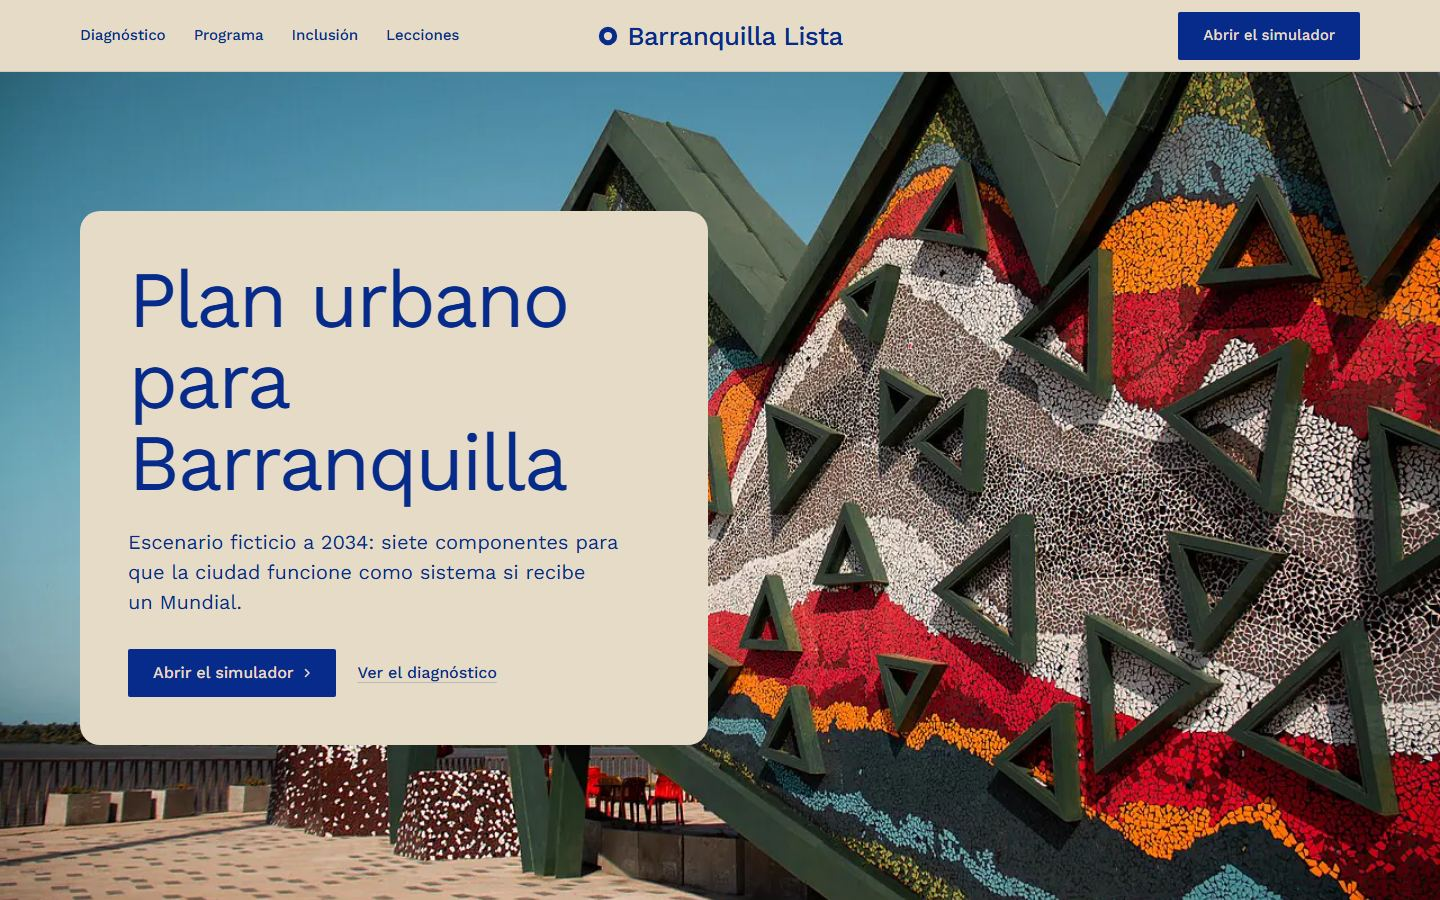
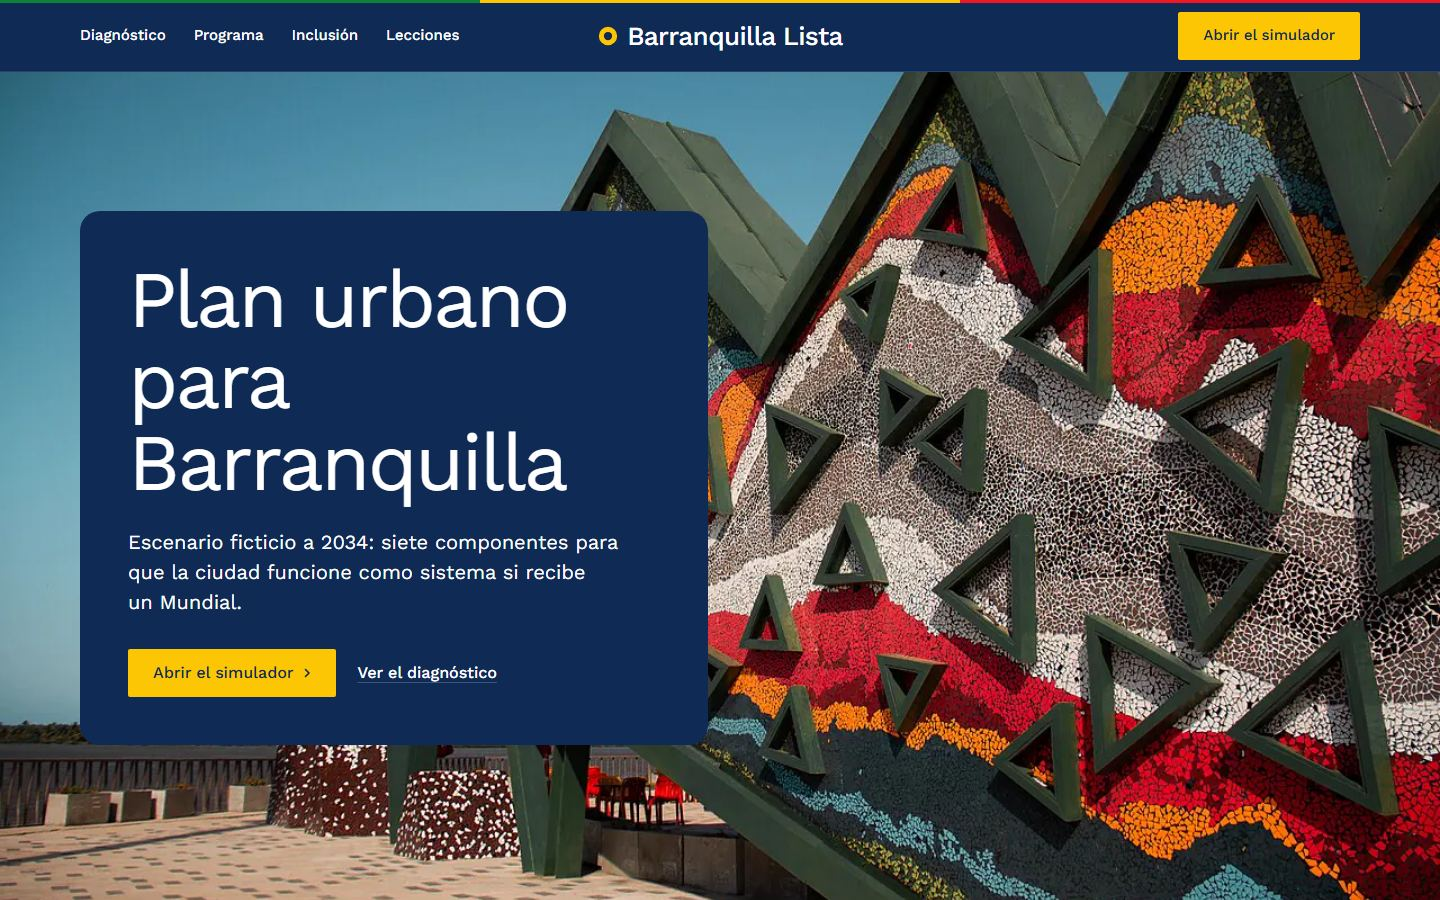
feat: aplica la nueva paleta de colores a la web
- fondo azul #0F2A54 con blanco, amarillo, verde y rojo; amarillo para
  acciones y datos, rojo y verde solo en detalles
- reúne los colores en css/paleta.css, antes repetidos en tres páginas
- franja superior verde, amarilla y roja
- actualiza el favicon y la imagen para compartir
- corrige los márgenes verticales de las secciones del simulador

diff --git a/web/index.html b/web/index.html
@@ -11,7 +11,7 @@
 <meta property="og:image" content="share.jpg">
 <meta name="twitter:card" content="summary_large_image">
 <link rel="icon" href="favicon.svg" type="image/svg+xml">
-<meta name="theme-color" content="#e6dbc7">
+<meta name="theme-color" content="#0f2a54">
 <meta name="site-kind" content="other">
 <meta name="page-type" content="service">
 <link rel="preconnect" href="https://fonts.googleapis.com">
@@ -23,19 +23,7 @@
 <link rel="stylesheet" href="assets/layout/layout.css">
 <link rel="stylesheet" href="assets/icons/icon.css">
 <link rel="stylesheet" href="assets/diagrams/diagram.css">
-<style>
-:root {
-  --p-bg: #e6dbc7; --p-surface: #ddd0b9; --p-ink: #062b8a; --p-muted: #3253a4;
-  --p-accent: #062b8a; --p-accent-ink: #e6dbc7; --p-action: #062b8a; --p-action-ink: #e6dbc7;
-  --p-inv-bg: #062b8a; --p-inv-surface: #153a90; --p-inv-ink: #e6dbc7; --p-inv-muted: #aab0bc;
-  --p-inv-accent: #e6dbc7; --p-inv-accent-ink: #062b8a; --p-inv-action: #e6dbc7; --p-inv-action-ink: #062b8a;
-  --font-display: "Work Sans", system-ui, sans-serif;
-  --font-text: "Work Sans", system-ui, sans-serif;
-  --display-weight: 400;
-  --display-tracking: -0.025em;
-  --display-tracking-xl: -0.035em;
-}
-</style>
+<link rel="stylesheet" href="css/paleta.css">
 <script>document.documentElement.classList.add('m-enter');setTimeout(()=>document.documentElement.classList.add('m-enter-done'),700)</script>
 <script>document.documentElement.classList.add('mo-js');setTimeout(()=>document.documentElement.classList.add('mo-safe'),2500)</script>
 <link rel="modulepreload" href="assets/moments/moments.js">
@@ -46,7 +34,7 @@
 <body>
 <!-- type: service (programa urbano ciudadano; site-kind other)
      deal: hero photo, nav nav-split, close close-photo, footer footer-dark, rhythm space, buttons block, mark ring, grounds none
-     palette cobalt-on-sand: arena de Bocas de Ceniza y el azul profundo del mar y el río Magdalena; type work-sans
+     palette del cliente (css/paleta.css): azul #0F2A54 de fondo, verde, amarillo, rojo y blanco; type work-sans
      moments: pinned-chapters en #partido (la cadena de respuesta un día de partido) -->
 
 <header class="nav nav--split">
@@ -136,13 +124,13 @@
           <p>Cuatro actúan en la calle, uno avisa y conecta, y dos sostienen el legado después de 2034. Detalle de cada uno en el simulador.</p>
         </div>
         <ul class="rows">
-          <li><span class="rows__name">A. Ciudad fresca y verde</span><span class="rows__value">Acción</span></li>
-          <li><span class="rows__name">B. Ciudad que no se detiene</span><span class="rows__value">Acción</span></li>
-          <li><span class="rows__name">C. Moverse fácil y accesible</span><span class="rows__value">Acción</span></li>
-          <li><span class="rows__name">E. El Mundial vende en el barrio</span><span class="rows__value">Acción</span></li>
-          <li><span class="rows__name">D. Ciudad que avisa y responde</span><span class="rows__value">Conexión</span></li>
-          <li><span class="rows__name">F. Legado que se vigila</span><span class="rows__value">Base</span></li>
-          <li><span class="rows__name">G. Escuela de ciudad</span><span class="rows__value">Base</span></li>
+          <li><span class="rows__name">A. Ciudad fresca y verde</span><span class="rows__value" data-tipo="accion">Acción</span></li>
+          <li><span class="rows__name">B. Ciudad que no se detiene</span><span class="rows__value" data-tipo="accion">Acción</span></li>
+          <li><span class="rows__name">C. Moverse fácil y accesible</span><span class="rows__value" data-tipo="accion">Acción</span></li>
+          <li><span class="rows__name">E. El Mundial vende en el barrio</span><span class="rows__value" data-tipo="accion">Acción</span></li>
+          <li><span class="rows__name">D. Ciudad que avisa y responde</span><span class="rows__value" data-tipo="conexion">Conexión</span></li>
+          <li><span class="rows__name">F. Legado que se vigila</span><span class="rows__value" data-tipo="base">Base</span></li>
+          <li><span class="rows__name">G. Escuela de ciudad</span><span class="rows__value" data-tipo="base">Base</span></li>
         </ul>
       </div>
       <div class="frame frame--fill span-6 start-7"><div class="dg" data-diagram><script type="application/json">{"layout":"hub","alt":"La Ciudad que avisa y responde en el centro, conectada con los otros seis componentes del programa.","center":{"label":"D. Avisa y responde","icon":"ui:bell"},"spokes":[{"label":"A. Fresca y verde","icon":"ui:sun"},{"label":"B. No se detiene","icon":"ui:cloud-rain"},{"label":"C. Moverse fácil","icon":"ui:bus"},{"label":"E. Economía de barrio","icon":"ui:store"},{"label":"F. Legado vigilado","icon":"ui:eye"},{"label":"G. Escuela de ciudad","icon":"ui:graduation-cap"}]}</script></div></div>

diff --git a/web/css/simulador.css b/web/css/simulador.css
@@ -36,7 +36,7 @@
 
 .sim-controls { display: flex; flex-wrap: wrap; gap: var(--s-2); margin-top: var(--s-5); }
 .sim-status { min-height: 1.5em; margin: var(--s-3) 0 0; font-size: var(--t-small); }
-.sim-status.is-error { color: #9b1c1c; font-weight: 500; }
+.sim-status.is-error { padding-left: var(--s-3); border-left: 3px solid var(--c-rojo); font-weight: 500; }
 
 .sim-meter { display: grid; grid-template-columns: 1fr 1fr; gap: var(--s-4); margin: var(--s-5) 0 0; padding-top: var(--s-4); border-top: 1px solid var(--line); }
 .sim-meter dt { font-size: var(--t-label); color: var(--muted); }
@@ -49,11 +49,11 @@
 .pin { display: grid; place-items: center; }
 .pin span {
   display: grid; place-items: center; width: 32px; height: 32px; border-radius: 50%;
-  background: var(--p-bg); color: var(--p-ink); border: 2px solid var(--p-ink);
+  background: var(--c-azul); color: var(--c-blanco); border: 2px solid var(--c-blanco);
   font: 500 14px/1 var(--font-text); box-shadow: 0 2px 6px rgb(0 0 0 / .25); transition: transform .25s ease, background-color .25s ease;
 }
-.pin.is-active span { background: var(--p-ink); color: var(--p-bg); transform: scale(1.2); }
-.pin.is-active::after { content: ""; position: absolute; inset: -6px; border-radius: 50%; border: 2px solid var(--p-ink); animation: sim-pulso 1.8s ease-out infinite; }
+.pin.is-active span { background: var(--c-amarillo); color: var(--c-azul); border-color: var(--c-azul); transform: scale(1.2); }
+.pin.is-active::after { content: ""; position: absolute; inset: -6px; border-radius: 50%; border: 3px solid var(--c-rojo); animation: sim-pulso 1.8s ease-out infinite; }
 @keyframes sim-pulso { from { opacity: .7; transform: scale(.8); } to { opacity: 0; transform: scale(1.6); } }
 .leaflet-container { font-family: var(--font-text); }
 
@@ -65,7 +65,7 @@
   font: 400 var(--t-body)/1.5 var(--font-text); transition: transform .2s ease;
 }
 .sim-point__btn:hover { transform: translateY(-2px); }
-.sim-point__btn[aria-pressed="true"] { border-color: var(--p-ink); }
+.sim-point__btn[aria-pressed="true"] { border-color: var(--action); box-shadow: inset 0 0 0 1px var(--action); }
 .sim-point__num { font-size: var(--t-label); font-weight: 500; color: var(--muted); }
 .sim-point__name { font-size: var(--t-lead); line-height: 1.3; }
 .sim-point__why { font-size: var(--t-body); }
@@ -93,5 +93,7 @@
 
 /* El simulador es una herramienta: sus secciones crecen con el contenido, no se fijan a una pantalla. */
 .sim main > section { height: auto; min-height: 0; padding: 0; }
+.sim main > .sim-app { padding-block: var(--s-7) var(--s-8); }
+.sim main > .sim-points { padding-block: var(--s-8); }
 .sim main > section > .wrap { height: auto; }
 .sim main > .sim-app > .wrap { display: grid; }

diff --git a/web/credits.html b/web/credits.html
@@ -11,7 +11,7 @@
 <meta property="og:image" content="share.jpg">
 <meta name="twitter:card" content="summary_large_image">
 <link rel="icon" href="favicon.svg" type="image/svg+xml">
-<meta name="theme-color" content="#e6dbc7">
+<meta name="theme-color" content="#0f2a54">
 <meta name="site-kind" content="other">
 <meta name="page-type" content="service">
 <link rel="preconnect" href="https://fonts.googleapis.com">
@@ -22,19 +22,7 @@
 <link rel="stylesheet" href="assets/motion/motion.css">
 <link rel="stylesheet" href="assets/layout/layout.css">
 <link rel="stylesheet" href="assets/icons/icon.css">
-<style>
-:root {
-  --p-bg: #e6dbc7; --p-surface: #ddd0b9; --p-ink: #062b8a; --p-muted: #3253a4;
-  --p-accent: #062b8a; --p-accent-ink: #e6dbc7; --p-action: #062b8a; --p-action-ink: #e6dbc7;
-  --p-inv-bg: #062b8a; --p-inv-surface: #153a90; --p-inv-ink: #e6dbc7; --p-inv-muted: #aab0bc;
-  --p-inv-accent: #e6dbc7; --p-inv-accent-ink: #062b8a; --p-inv-action: #e6dbc7; --p-inv-action-ink: #062b8a;
-  --font-display: "Work Sans", system-ui, sans-serif;
-  --font-text: "Work Sans", system-ui, sans-serif;
-  --display-weight: 400;
-  --display-tracking: -0.025em;
-  --display-tracking-xl: -0.035em;
-}
-</style>
+<link rel="stylesheet" href="css/paleta.css">
 <script>document.documentElement.classList.add('m-enter');setTimeout(()=>document.documentElement.classList.add('m-enter-done'),700)</script>
 <script>document.documentElement.classList.add('mo-js');setTimeout(()=>document.documentElement.classList.add('mo-safe'),2500)</script>
 <link rel="modulepreload" href="assets/moments/moments.js">
@@ -45,7 +33,7 @@
 <body>
 <!-- type: service (programa urbano ciudadano; site-kind other)
      deal: hero photo, nav nav-split, close close-photo, footer footer-dark, rhythm space, buttons block, mark ring, grounds none
-     palette cobalt-on-sand: arena de Bocas de Ceniza y el azul profundo del mar y el río Magdalena; type work-sans
+     palette del cliente (css/paleta.css): azul #0F2A54 de fondo, verde, amarillo, rojo y blanco; type work-sans
      moments: pinned-chapters en #partido (la cadena de respuesta un día de partido) -->
 
 <header class="nav nav--split">

diff --git a/web/css/pagina.css b/web/css/pagina.css
@@ -12,6 +12,21 @@
   .causes__row > span:nth-child(2)::before { content: "Genera"; }
   .causes__row > span:nth-child(3)::before { content: "Provoca"; }
 }
+/* Color con significado: rojo en el diagnóstico (problemas), verde en la inclusión (compromisos). */
+#diagnostico .rows__name::before, #inclusion .rows__name::before {
+  content: ""; position: absolute; left: calc(-1 * var(--s-4)); top: calc(50% - 4px); width: 8px; height: 8px; border-radius: 50%;
+}
+#diagnostico .rows__name, #inclusion .rows__name { position: relative; }
+#diagnostico .rows__name::before { background: var(--c-rojo); }
+#inclusion .rows__name::before { background: var(--c-verde); }
+#diagnostico .rows__value, #lecciones .rows__value { color: var(--accent); }
+.rows__value[data-tipo] { padding: 2px var(--s-3); border-radius: 999px; font-size: var(--t-label); font-weight: 600; }
+.rows__value[data-tipo="accion"] { background: var(--c-verde); color: var(--c-blanco); }
+.rows__value[data-tipo="conexion"] { background: var(--c-amarillo); color: var(--c-azul); }
+.rows__value[data-tipo="base"] { box-shadow: inset 0 0 0 1px var(--line-strong); color: var(--ink); }
+.causes__row--head > span { border-top: 3px solid var(--line-strong); padding-top: var(--s-2); }
+.causes__row--head > span:nth-child(2) { border-top-color: var(--c-rojo); }
+.causes__row--head > span:nth-child(3) { border-top-color: var(--c-amarillo); }
 .fn { font-size: var(--t-label); margin-left: 2px; vertical-align: super; line-height: 0; }
 .sources { list-style: none; margin: 0; padding: 0; display: grid; gap: var(--s-2); font-size: var(--t-small); counter-reset: fuente; }
 

diff --git a/web/css/paleta.css b/web/css/paleta.css
@@ -1,0 +1,43 @@
+/* Paleta de Barranquilla Lista: única fuente de color para las tres páginas.
+   Proporción: el azul manda, el blanco se lee, el amarillo marca la acción y los datos,
+   el rojo señala problemas y el verde soluciones. Rojo y verde solo en detalles, nunca en texto. */
+:root {
+  --c-azul: #0f2a54;
+  --c-verde: #0c8436;
+  --c-amarillo: #fcc605;
+  --c-rojo: #f01622;
+  --c-blanco: #ffffff;
+
+  --p-bg: var(--c-azul);
+  --p-surface: #17345f;
+  --p-ink: var(--c-blanco);
+  --p-muted: #b9c6dc;
+  --p-accent: var(--c-amarillo);
+  --p-accent-ink: var(--c-azul);
+  --p-action: var(--c-amarillo);
+  --p-action-ink: var(--c-azul);
+
+  --p-inv-bg: #0a1d3b;
+  --p-inv-surface: var(--p-surface);
+  --p-inv-ink: var(--c-blanco);
+  --p-inv-muted: var(--p-muted);
+  --p-inv-accent: var(--c-amarillo);
+  --p-inv-accent-ink: var(--c-azul);
+  --p-inv-action: var(--c-amarillo);
+  --p-inv-action-ink: var(--c-azul);
+
+  --font-display: "Work Sans", system-ui, sans-serif;
+  --font-text: "Work Sans", system-ui, sans-serif;
+  --display-weight: 400;
+  --display-tracking: -0.025em;
+  --display-tracking-xl: -0.035em;
+
+  color-scheme: dark;
+}
+
+/* Franja superior de tres colores: la firma de la marca en todas las páginas. */
+.nav::before {
+  content: ""; position: absolute; inset: 0 0 auto 0; height: 3px;
+  background: linear-gradient(90deg,
+    var(--c-verde) 0 33.333%, var(--c-amarillo) 33.333% 66.666%, var(--c-rojo) 66.666%);
+}

diff --git a/web/simulador.html b/web/simulador.html
@@ -11,7 +11,7 @@
 <meta property="og:image" content="share.jpg">
 <meta name="twitter:card" content="summary_large_image">
 <link rel="icon" href="favicon.svg" type="image/svg+xml">
-<meta name="theme-color" content="#e6dbc7">
+<meta name="theme-color" content="#0f2a54">
 <meta name="site-kind" content="other">
 <meta name="page-type" content="service">
 <link rel="preconnect" href="https://fonts.googleapis.com">
@@ -20,19 +20,7 @@
 <link rel="stylesheet" href="assets/system.css">
 <link rel="stylesheet" href="assets/motion/motion.css">
 <link rel="stylesheet" href="vendor/leaflet/leaflet.css">
-<style>
-:root {
-  --p-bg: #e6dbc7; --p-surface: #ddd0b9; --p-ink: #062b8a; --p-muted: #3253a4;
-  --p-accent: #062b8a; --p-accent-ink: #e6dbc7; --p-action: #062b8a; --p-action-ink: #e6dbc7;
-  --p-inv-bg: #062b8a; --p-inv-surface: #153a90; --p-inv-ink: #e6dbc7; --p-inv-muted: #aab0bc;
-  --p-inv-accent: #e6dbc7; --p-inv-accent-ink: #062b8a; --p-inv-action: #e6dbc7; --p-inv-action-ink: #062b8a;
-  --font-display: "Work Sans", system-ui, sans-serif;
-  --font-text: "Work Sans", system-ui, sans-serif;
-  --display-weight: 400;
-  --display-tracking: -0.025em;
-  --display-tracking-xl: -0.035em;
-}
-</style>
+<link rel="stylesheet" href="css/paleta.css">
 <link rel="stylesheet" href="css/simulador.css">
 </head>
 <body class="sim">
